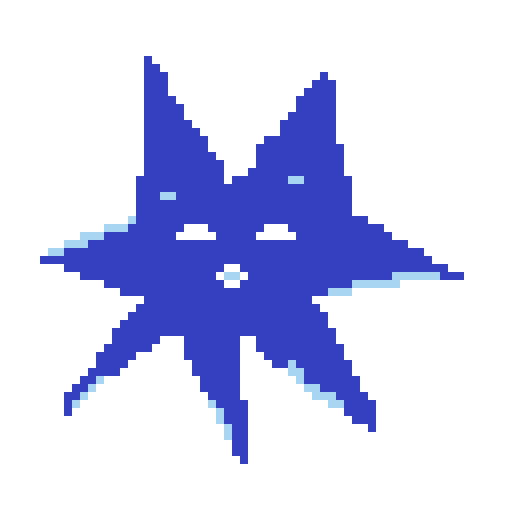
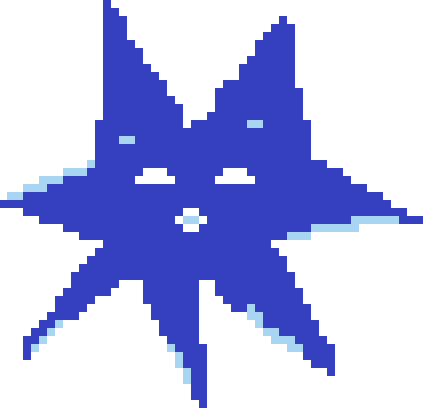
updating files

diff --git a/game3/sketch.js b/game3/sketch.js
@@ -2,14 +2,18 @@
     let birdAnimation;
     let pipes = [];
     let score = 0;
+let jumpSound;
 
 var bg;
 
     function preload() {
-      birdSprite = loadImage('anastasia.png');
+      birdSprite = loadImage('anastasia-copy.png');
       font = loadFont("Minecraft.ttf");
       
-      bg = loadImage("forest.jpg");
+      bg = loadImage("fangirl-landia.jpg");
+
+      soundFormats('mp3', 'ogg');
+  jumpSound = loadSound('jump.mp3');
     }   
 
     function setup() {
@@ -21,40 +25,166 @@ var bg;
   textFont(font);
   fill("#22031F");
   stroke("#CC76A1");
+
+  // jumpSound.volume(5);
     }
 
-    function draw() {
-      background(bg);
-      filter(BLUR); 
 
-      for (let i = pipes.length - 1; i >= 0; i--) {
-        pipes[i].show();
-        pipes[i].update();
+    // let gamePaused = false;
 
-        if (pipes[i].hits(bird)) {
-          background("#F2B7C6");
-          text('Game over!', width/2-50, height/2);
-          noLoop();
-        }
+function draw() {
+  background(bg);
+  filter(BLUR);
 
-        if (pipes[i].offscreen()) {
-          pipes.splice(i, 1);
-          score++;
-        }
-      }
+  // && !gamePaused
 
-      bird.update();
-      bird.show();
+  if (score >= 5) {
+    textSize(32);
+    fill(255);
+    background("#F2B7C6");
+    text('You Win!', width/2-55, height/2);
+    // noLoop(); // Stop the game temporarily
+    // gamePaused = true;
+    // return;
+  }
 
-      if (frameCount % 100 == 0) {
-        pipes.push(new Pipe());
-      }
+  for (let i = pipes.length - 1; i >= 0; i--) {
+    pipes[i].show();
+    pipes[i].update();
 
-      fill(255);
-      textSize(32);
-      text(score, 10, 30);
-      strokeWeight(3.5);
+    if (pipes[i].hits(bird)) {
+      background("#F2B7C6");
+      text('Game over!', width/2-70, height/2);
+      noLoop();
     }
+
+    if (pipes[i].offscreen()) {
+      pipes.splice(i, 1);
+      score++;
+    }
+  }
+
+  bird.update();
+  bird.show();
+
+  if (frameCount % 100 == 0) {
+    pipes.push(new Pipe());
+  }
+
+  fill(255);
+  textSize(32);
+  text(score, 10, 30);
+  strokeWeight(3.5);
+}
+
+function keyPressed() {
+  if (key == ' ') {
+    bird.up();
+    jumpSound.play();
+  }
+  
+  // if (gamePaused) {
+  //   if (key === 'Y' || key === 'y') {
+  //     score = 0;
+  //     loop(); // Continue the game
+  //     gamePaused = false;
+  //   } else if (key === 'N' || key === 'n') {
+  //     noLoop(); // Stop the game
+  //   }
+  // }
+}
+
+
+
+    // function draw() {
+    //   background(bg);
+    //   filter(BLUR);
+    
+    //   if (score >= 3) {
+    //     textSize(32);
+    //     fill(255);
+    //     text('You win! Continue? (Y/N)', width/2-230, height/2);
+    //     noLoop(); // Stop the game temporarily
+    //     return;
+    //   }
+    
+    //   for (let i = pipes.length - 1; i >= 0; i--) {
+    //     pipes[i].show();
+    //     pipes[i].update();
+    
+    //     if (pipes[i].hits(bird)) {
+    //       background("#F2B7C6");
+    //       text('Game over!', width/2-50, height/2);
+    //       noLoop();
+    //     }
+    
+    //     if (pipes[i].offscreen()) {
+    //       pipes.splice(i, 1);
+    //       score++;
+    //     }
+    //   }
+    
+    //   bird.update();
+    //   bird.show();
+    
+    //   if (frameCount % 100 == 0) {
+    //     pipes.push(new Pipe());
+    //   }
+    
+    //   fill(255);
+    //   textSize(32);
+    //   text(score, 10, 30);
+    //   strokeWeight(3.5);
+    // }
+    
+    // function keyPressed() {
+    //   if (key == ' ') {
+    //     bird.up();
+    //   }
+      
+    //   if (score >= 3) {
+    //     if (key === 'Y' || key === 'y') {
+    //       score = 0;
+    //       loop(); // Continue the game
+    //     } else if (key === 'N' || key === 'n') {
+    //       noLoop(); // Stop the game
+    //     }
+    //   }
+    // }
+    
+
+    // function draw() {
+    //   background(bg);
+    //   filter(BLUR); 
+
+    //   for (let i = pipes.length - 1; i >= 0; i--) {
+    //     pipes[i].show();
+    //     pipes[i].update();
+
+    //     if (pipes[i].hits(bird)) {
+    //       background("#F2B7C6");
+    //       text('Game over!', width/2-50, height/2);
+    //       noLoop();
+    //     }
+
+    //     if (pipes[i].offscreen()) {
+    //       pipes.splice(i, 1);
+    //       score++;
+    //     }
+    //   }
+
+    //   bird.update();
+    //   bird.show();
+
+    //   if (frameCount % 100 == 0) {
+    //     pipes.push(new Pipe());
+    //   }
+
+    //   fill(255);
+    //   textSize(32);
+    //   text(score, 10, 30);
+    //   strokeWeight(3.5);
+    // }
 
     function keyPressed() {
       if (key == ' ') {
@@ -72,7 +202,7 @@ var bg;
       }
 
       show() {
-        image(birdSprite , this.x, this.y, 100, 100);
+        image(birdSprite , this.x, this.y, 60, 80); // Adjust width and height here
       }
 
       up() {

diff --git a/game2/sketch.js b/game2/sketch.js
@@ -1,19 +1,20 @@
 let player;
 let playerPosition;
-let targets = []; 
-let targetSize = 145; 
-let popUpSize = 200;
-let popUpImages = []; 
-let showPopUp = false; 
-let popUpIndex; 
-let popUpTimer = 0; 
+let targets = [];
+let targetSize = 145;
+let popUpImages = [];
+let showPopUp = false;
+let popUpIndex;
+let popUpTimer = 0;
+let fadeInSpeed = 5; // Speed of fade-in effect
+let fadeInOpacity = 0; // Opacity for fade-in effect
 var bg;
 
 function preload() {
-  player = loadImage('star.png');
-  popUpImages.push(loadImage('popup1.png'));
-  popUpImages.push(loadImage('popup2.png'));
-  popUpImages.push(loadImage('popup3.png'));
+  player = loadImage('.././icons/cursor-click.png');
+  popUpImages.push(loadImage('popup-test1.png'));
+  popUpImages.push(loadImage('popup-test2.png'));
+  popUpImages.push(loadImage('popup-test3.png'));
   bg = loadImage("cafe.jpg");
 }
 
@@ -24,8 +25,18 @@ function setup() {
 
   // Create random target positions within canvas boundaries
   for (let i = 0; i < 3; i++) {
-    let targetX = random(targetSize / 2, width - targetSize / 2); // Ensure target is fully visible within canvas
-    let targetY = random(targetSize / 2, height - targetSize / 2); // Ensure target is fully visible within canvas
+    let validPosition = false;
+    let targetX, targetY;
+
+    // Keep generating random positions until a valid one is found
+    while (!validPosition) {
+      targetX = random(targetSize / 2, width - targetSize / 2); // Ensure target is fully visible within canvas
+      targetY = random(targetSize / 2, height - targetSize / 2); // Ensure target is fully visible within canvas
+
+      // Check if the new position is at least 250 pixels away from existing targets
+      validPosition = targets.every(target => dist(targetX, targetY, target.position.x, target.position.y) >= 250);
+    }
+
     let popUpImage = popUpImages[i % popUpImages.length]; // Select pop-up image
     targets.push(new Target(targetX, targetY, loadImage('target' + i + '.png'), popUpImage));
   }
@@ -45,24 +56,28 @@ function draw() {
   playerPosition.x = mouseX;
   playerPosition.y = mouseY;
 
-  //star player y/n
+  // Draw player
   image(player, playerPosition.x, playerPosition.y);
 
-  // collisions with targets
+  // Collisions with targets
   for (let i = 0; i < targets.length; i++) {
     if (targets[i] instanceof Target && !targets[i].found && targets[i].checkCollision(playerPosition.x, playerPosition.y, player.width / 2)) {
       // Set target as found
       targets[i].found = true;
       // Set pop-up index
       popUpIndex = i % 3;
+      fadeInOpacity = 0; // Reset opacity for fade-in effect
       showPopUp = true;
       popUpTimer = millis() + 10000; // 10 seconds
     }
   }
 
-  // Display pop-up message
+  // Display pop-up message with fade-in effect
   if (showPopUp && millis() < popUpTimer) {
+    fadeInOpacity = min(fadeInOpacity + fadeInSpeed, 255); // Increase opacity
+    tint(255, fadeInOpacity); // Apply fade-in effect
     targets[popUpIndex].displayPopup();
+    noTint(); // Reset tint
   } else {
     showPopUp = false;
   }
@@ -90,16 +105,22 @@ class Target {
   }
 
   displayPopup() {
-    // Calculate pop-up position to the right of the target
-    let popupX = this.position.x + targetSize / 2; // Position to the right of the target
+    // Calculate pop-up position to the right of the target, with some padding
+    let popupX = this.position.x + targetSize / 2 + 5; // Position to the right of the target with padding
     let popupY = this.position.y - this.popUpImage.height / 2; // Center vertically
     let popupWidth = this.popUpImage.width;
     let popupHeight = this.popUpImage.height;
-    
-    //pop-up message stays in boundaries
+
+    // Check if there's enough room to display the pop-up image on the right
+    if (popupX + popupWidth > width) {
+      // Not enough room on the right, display on the left instead
+      popupX = this.position.x - targetSize / 2 - popupWidth - 15; // Position to the left of the target with padding
+    }
+
+    // Pop-up message stays in boundaries
     popupX = constrain(popupX, 0, width - popupWidth);
     popupY = constrain(popupY, 0, height - popupHeight);
-    
+
     // Draw the pop-up message
     image(this.popUpImage, popupX, popupY, popupWidth, popupHeight);
   }

diff --git a/game3/style.css b/game3/style.css
@@ -5,6 +5,7 @@
 
 html{
   font-family: "Minecraft", monospace;
+  cursor: url(.././icons/cursor-reg.png), auto;
 }
 
 .p-header{
@@ -20,6 +21,7 @@ body{
   max-width: 1120px;
   margin: 5% auto;
   background-color: #ECECE4;
+  cursor: url(.././icons/cursor-reg.png), auto;
 }
 
 .center{
@@ -34,24 +36,32 @@ body{
 button{
   background-color: #DD9296;
   border-color: #22031F;
-  border-radius: 1px;
+  border-radius: 0.5px;
   padding: 15px;
   font-family: "Minecraft"; 
   font-size: 16px; 
   display: inline-block; 
   margin: 20px 5px auto; 
+  cursor: url(.././icons/cursor-click.png), auto;
+}
+
+button:hover{
+    cursor: url(.././icons/cursor-click.png), auto;
 }
 
 a{
   text-decoration: none;
   color: #22031F;
+  cursor: url(.././icons/cursor-click.png), auto;
 }
 
 a:hover{
   text-decoration: underline;
+  cursor: url(.././icons/cursor-click.png), auto;
 }
 
 canvas {
   display: block;
   margin: auto;
+  cursor: url(.././icons/cursor-reg.png), auto;
 }

diff --git a/css/index.css b/css/index.css
@@ -31,11 +31,13 @@ button{
     font-size: 16px; 
     display: inline-block; 
     margin: 20px auto; 
+    cursor: url(../icons/cursor-click.png), auto;
 }
 
 a{
     text-decoration: none;
     color: #22031F;
+    cursor: url(../icons/cursor-click.png), auto;
 }
 
 a:hover{
